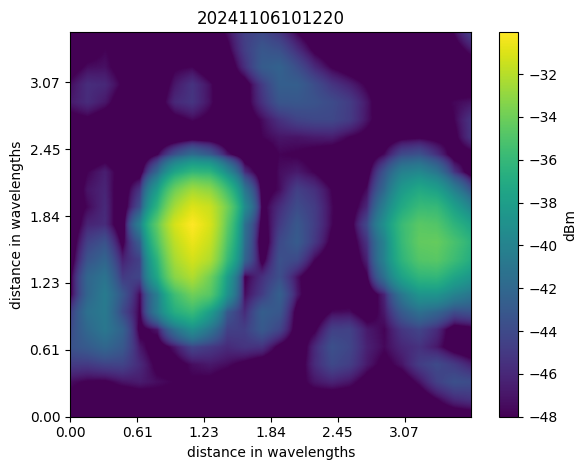
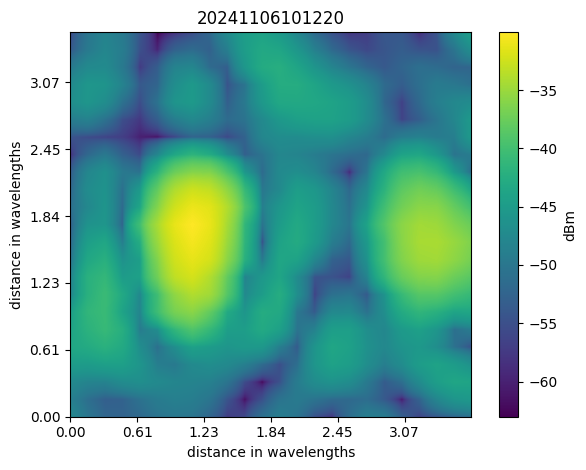
update figs

diff --git a/03_geometry_based_beamforming/031_Friis/processing/plot_2d.py b/03_geometry_based_beamforming/031_Friis/processing/plot_2d.py
@@ -54,8 +54,8 @@ for i, tp in enumerate(to_plot):
     upsampled_heatmap = zoom(heatmap, zoom=zoom_val, order=1)
     plt.imshow(
         10 * np.log10(upsampled_heatmap) + 10,  # + 10 to account for the cable loss
-        vmin=-48,
-        vmax=None,
+        # vmin=-48,
+        # vmax=None,
         cmap="viridis",
         origin="lower",
     )
